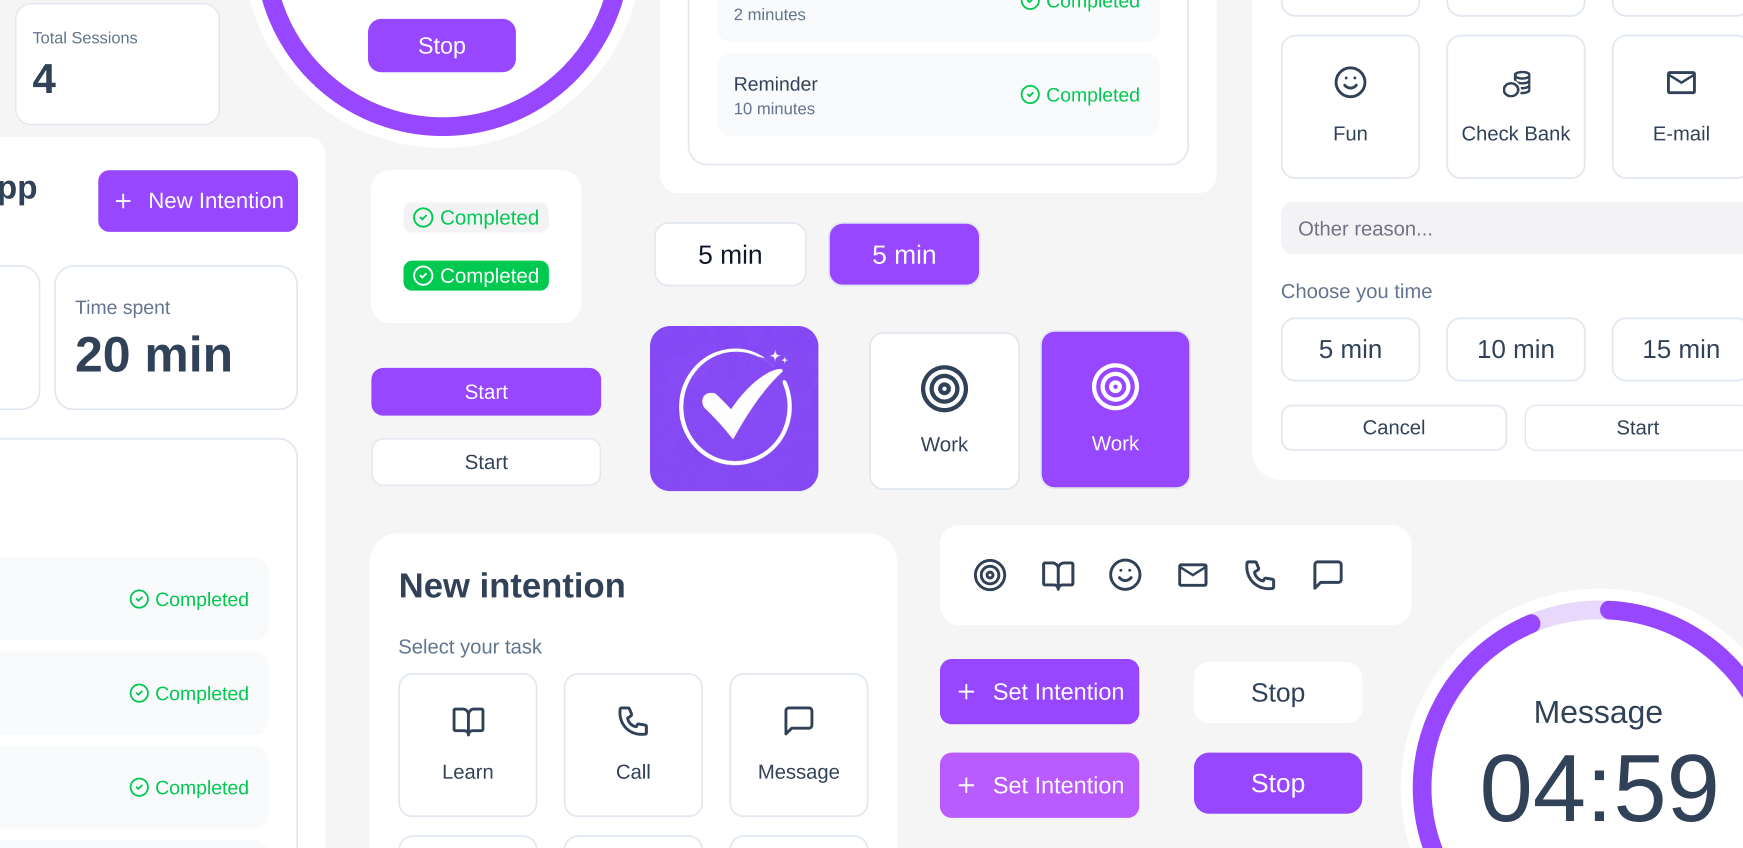
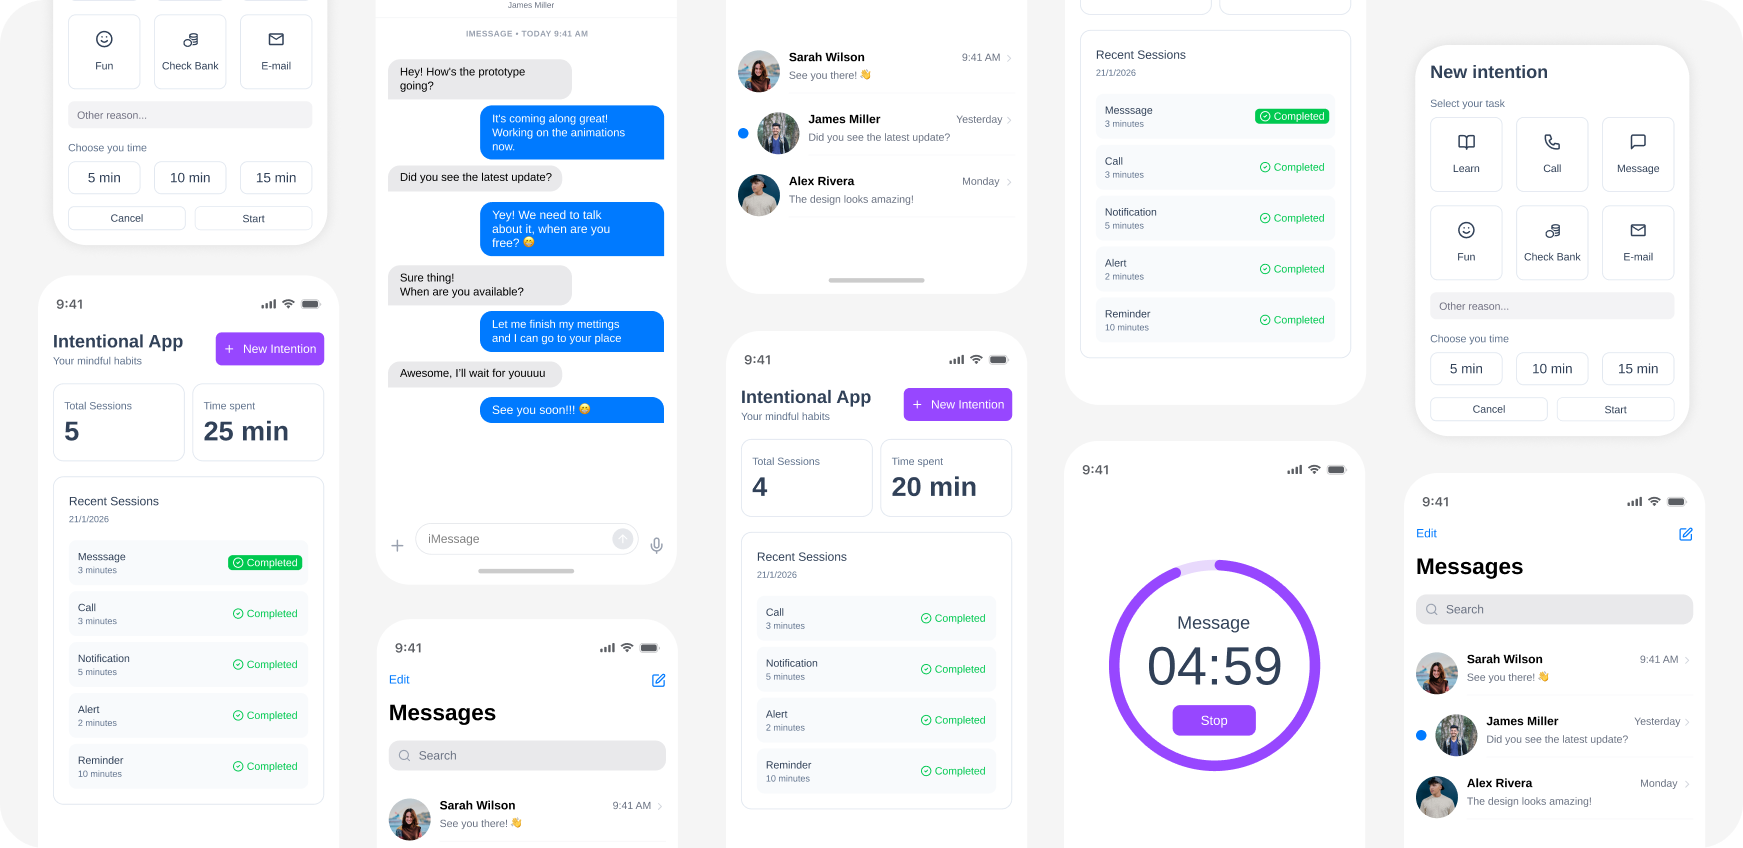
Add files via upload

diff --git a/case-agora.html b/case-agora.html
@@ -1,0 +1,248 @@
+<!DOCTYPE html>
+<html lang="en">
+<head>
+<meta charset="UTF-8">
+<meta name="viewport" content="width=device-width, initial-scale=1.0">
+<title>Agora Design System — Camila Sobrino</title>
+<link rel="icon" type="image/png" href="favicon.png">
+<style>
+  @import url('https://fonts.googleapis.com/css2?family=Inter:wght@400;500;600;700;800&display=swap');
+
+  :root{
+    --ink: #14161a;
+    --muted: #5b616b;
+    --line: #e7e6e2;
+    --accent: #5b6ee8;
+    --paper: #ffffff;
+    --edtech-bg: #fde2e4; --edtech-fg: #ee2737;
+  }
+
+  *{ box-sizing: border-box; }
+  html,body{ margin:0; padding:0; height:100%; }
+  body{
+    font-family: 'Inter', -apple-system, BlinkMacSystemFont, 'Segoe UI', sans-serif;
+    color: var(--ink);
+    background: var(--paper);
+    -webkit-font-smoothing: antialiased;
+    display:flex;
+    flex-direction:column;
+    min-height:100vh;
+  }
+  a{ color: inherit; text-decoration: none; }
+
+  .wrap{
+    max-width: 980px;
+    margin: 0 auto;
+    padding: 0 40px;
+    width:100%;
+  }
+
+  header{ }
+  .header-inner{
+    display:flex;
+    align-items:center;
+    justify-content: space-between;
+    padding: 22px 0;
+  }
+  .back-link{
+    display:flex; align-items:center; gap:8px;
+    font-size: 16px;
+    font-weight: 500;
+    color: var(--ink);
+  }
+  .back-link:hover{ color: var(--accent); }
+  .back-link svg{ width:18px; height:18px; flex-shrink:0; }
+
+  .tag{
+    display:inline-block;
+    font-size: 13px;
+    font-weight: 600;
+    padding: 7px 16px;
+    border-radius: 999px;
+    background: var(--edtech-bg);
+    color: var(--edtech-fg);
+    white-space: nowrap;
+  }
+
+  main{
+    flex: 1;
+    display:flex;
+    align-items:center;
+    justify-content:center;
+    padding: 40px 0;
+  }
+
+  .gate{
+    width: 100%;
+    max-width: 420px;
+    text-align:center;
+  }
+  .gate-icon{
+    width: 56px;
+    height: 56px;
+    border-radius: 50%;
+    background: var(--edtech-bg);
+    display:flex;
+    align-items:center;
+    justify-content:center;
+    margin: 0 auto 24px;
+  }
+  .gate-icon svg{ width:24px; height:24px; color: var(--edtech-fg); }
+  .gate h1{
+    font-size: 26px;
+    font-weight: 800;
+    letter-spacing: -0.01em;
+    margin: 0 0 10px;
+  }
+  .gate p{
+    font-size: 15px;
+    line-height: 1.6;
+    color: var(--muted);
+    margin: 0 0 28px;
+  }
+
+  .gate-form{
+    display:flex;
+    flex-direction: column;
+    gap: 12px;
+  }
+  .gate-input{
+    width: 100%;
+    font-family: inherit;
+    font-size: 15px;
+    padding: 14px 16px;
+    border-radius: 10px;
+    border: 1px solid var(--line);
+    outline: none;
+    text-align: center;
+    letter-spacing: 0.05em;
+  }
+  .gate-input:focus{
+    border-color: var(--edtech-fg);
+  }
+  .gate-input.error{
+    border-color: var(--edtech-fg);
+    animation: shake 0.35s ease;
+  }
+  @keyframes shake{
+    0%, 100%{ transform: translateX(0); }
+    25%{ transform: translateX(-6px); }
+    75%{ transform: translateX(6px); }
+  }
+  .gate-submit{
+    width: 100%;
+    font-family: inherit;
+    font-size: 15px;
+    font-weight: 700;
+    color: #fff;
+    background: var(--edtech-fg);
+    border: none;
+    padding: 14px 16px;
+    border-radius: 10px;
+    cursor: pointer;
+    transition: opacity .2s ease;
+  }
+  .gate-submit:hover{ opacity: 0.88; }
+
+  .error-msg{
+    font-size: 13.5px;
+    color: var(--edtech-fg);
+    min-height: 18px;
+    margin: 2px 0 0;
+  }
+
+  .unlocked{
+    display:none;
+  }
+  .unlocked.show{
+    display:block;
+  }
+  .unlocked-icon{
+    width: 56px;
+    height: 56px;
+    border-radius: 50%;
+    background: #e2f4e7;
+    display:flex;
+    align-items:center;
+    justify-content:center;
+    margin: 0 auto 24px;
+  }
+  .unlocked-icon svg{ width:26px; height:26px; color: #23833f; }
+
+  footer{
+    padding: 28px 0;
+    font-size: 13px;
+    color: var(--muted);
+    text-align:center;
+  }
+
+  @media (max-width: 560px){
+    .wrap{ padding: 0 24px; }
+    .gate h1{ font-size: 22px; }
+  }
+</style>
+</head>
+<body>
+
+  <header>
+    <div class="wrap header-inner">
+      <a class="back-link" href="index.html">
+        <svg viewBox="0 0 24 24" fill="none" stroke="currentColor" stroke-width="2"><path d="M19 12H5M12 19l-7-7 7-7"/></svg>
+        Go back
+      </a>
+      <span class="tag">EAE</span>
+    </div>
+  </header>
+
+  <main class="wrap">
+    <div class="gate" id="gateLocked">
+      <div class="gate-icon">
+        <svg viewBox="0 0 24 24" fill="none" stroke="currentColor" stroke-width="2"><rect x="4" y="11" width="16" height="10" rx="2"/><path d="M8 11V7a4 4 0 018 0v4"/></svg>
+      </div>
+      <h1>Agora Design System</h1>
+      <p>This case study is password protected. Enter the password to continue.</p>
+      <form class="gate-form" id="gateForm">
+        <input type="password" class="gate-input" id="gateInput" placeholder="Password" autocomplete="off">
+        <p class="error-msg" id="gateError"></p>
+        <button type="submit" class="gate-submit">Unlock</button>
+      </form>
+    </div>
+
+    <div class="gate unlocked" id="gateUnlocked">
+      <div class="unlocked-icon">
+        <svg viewBox="0 0 24 24" fill="none" stroke="currentColor" stroke-width="2"><path d="M20 6L9 17l-5-5"/></svg>
+      </div>
+      <h1>You're in!</h1>
+      <p>The full Agora Design System case study is coming soon — check back shortly.</p>
+    </div>
+  </main>
+
+  <footer>
+    © 2026 Camila Sobrino. All rights reserved.
+  </footer>
+
+  <script>
+    var CORRECT_PASSWORD = "agora2026";
+    var form = document.getElementById('gateForm');
+    var input = document.getElementById('gateInput');
+    var errorMsg = document.getElementById('gateError');
+    var locked = document.getElementById('gateLocked');
+    var unlocked = document.getElementById('gateUnlocked');
+
+    form.addEventListener('submit', function(e){
+      e.preventDefault();
+      if (input.value.trim() === CORRECT_PASSWORD) {
+        locked.style.display = 'none';
+        unlocked.classList.add('show');
+      } else {
+        errorMsg.textContent = 'Incorrect password, please try again.';
+        input.classList.remove('error');
+        void input.offsetWidth;
+        input.classList.add('error');
+        input.value = '';
+      }
+    });
+  </script>
+
+</body>
+</html>

diff --git a/index.html b/index.html
@@ -50,7 +50,14 @@
     display:flex; gap:10px; align-items:center;
   }
   .brand-name{
-    font-size: 22px;
+    width: 44px;
+    height: 44px;
+    border-radius: 50%;
+    border: 1.5px solid var(--line);
+    display:flex;
+    align-items:center;
+    justify-content:center;
+    font-size: 15px;
     font-weight: 800;
     letter-spacing: -0.01em;
     color: var(--ink);
@@ -165,7 +172,7 @@
   }
   .work-grid{
     display:grid;
-    grid-template-columns: repeat(3, 1fr);
+    grid-template-columns: repeat(2, 1fr);
     gap: 26px;
   }
   .card{
@@ -348,6 +355,17 @@
     <section class="work" id="work">
       <div class="work-grid">
 
+        <a class="card" href="case-agora.html">
+          <div class="thumb">
+            <img src="agora-design-system.png" alt="Agora Design System — EAE case study">
+          </div>
+          <div class="card-body">
+            <h3>Agora Design System</h3>
+            <p class="card-desc">Defines the foundations of user interfaces across EAE Business School ecosystem of products & services.</p>
+            <span class="tag edtech">EAE</span>
+          </div>
+        </a>
+
         <a class="card" href="case-eae.html">
           <div class="thumb">
             <img src="eae.png" alt="Improving the onboarding experience — EAE case study">
@@ -367,17 +385,6 @@
             <h3>Increasing user agency through intentional app</h3>
             <p class="card-desc">Designing a mindful interaction flow that helps users pause and set intention before opening apps.</p>
             <span class="tag health">Side Project</span>
-          </div>
-        </a>
-
-        <a class="card" href="#">
-          <div class="thumb">
-            <img src="agora-design-system.png" alt="Agora Design System — EAE case study">
-          </div>
-          <div class="card-body">
-            <h3>Agora Design System</h3>
-            <p class="card-desc">Agora design system defines the foundations of user interfaces across EAE Business School ecosystem of products & services.</p>
-            <span class="tag edtech">EAE</span>
           </div>
         </a>
 
